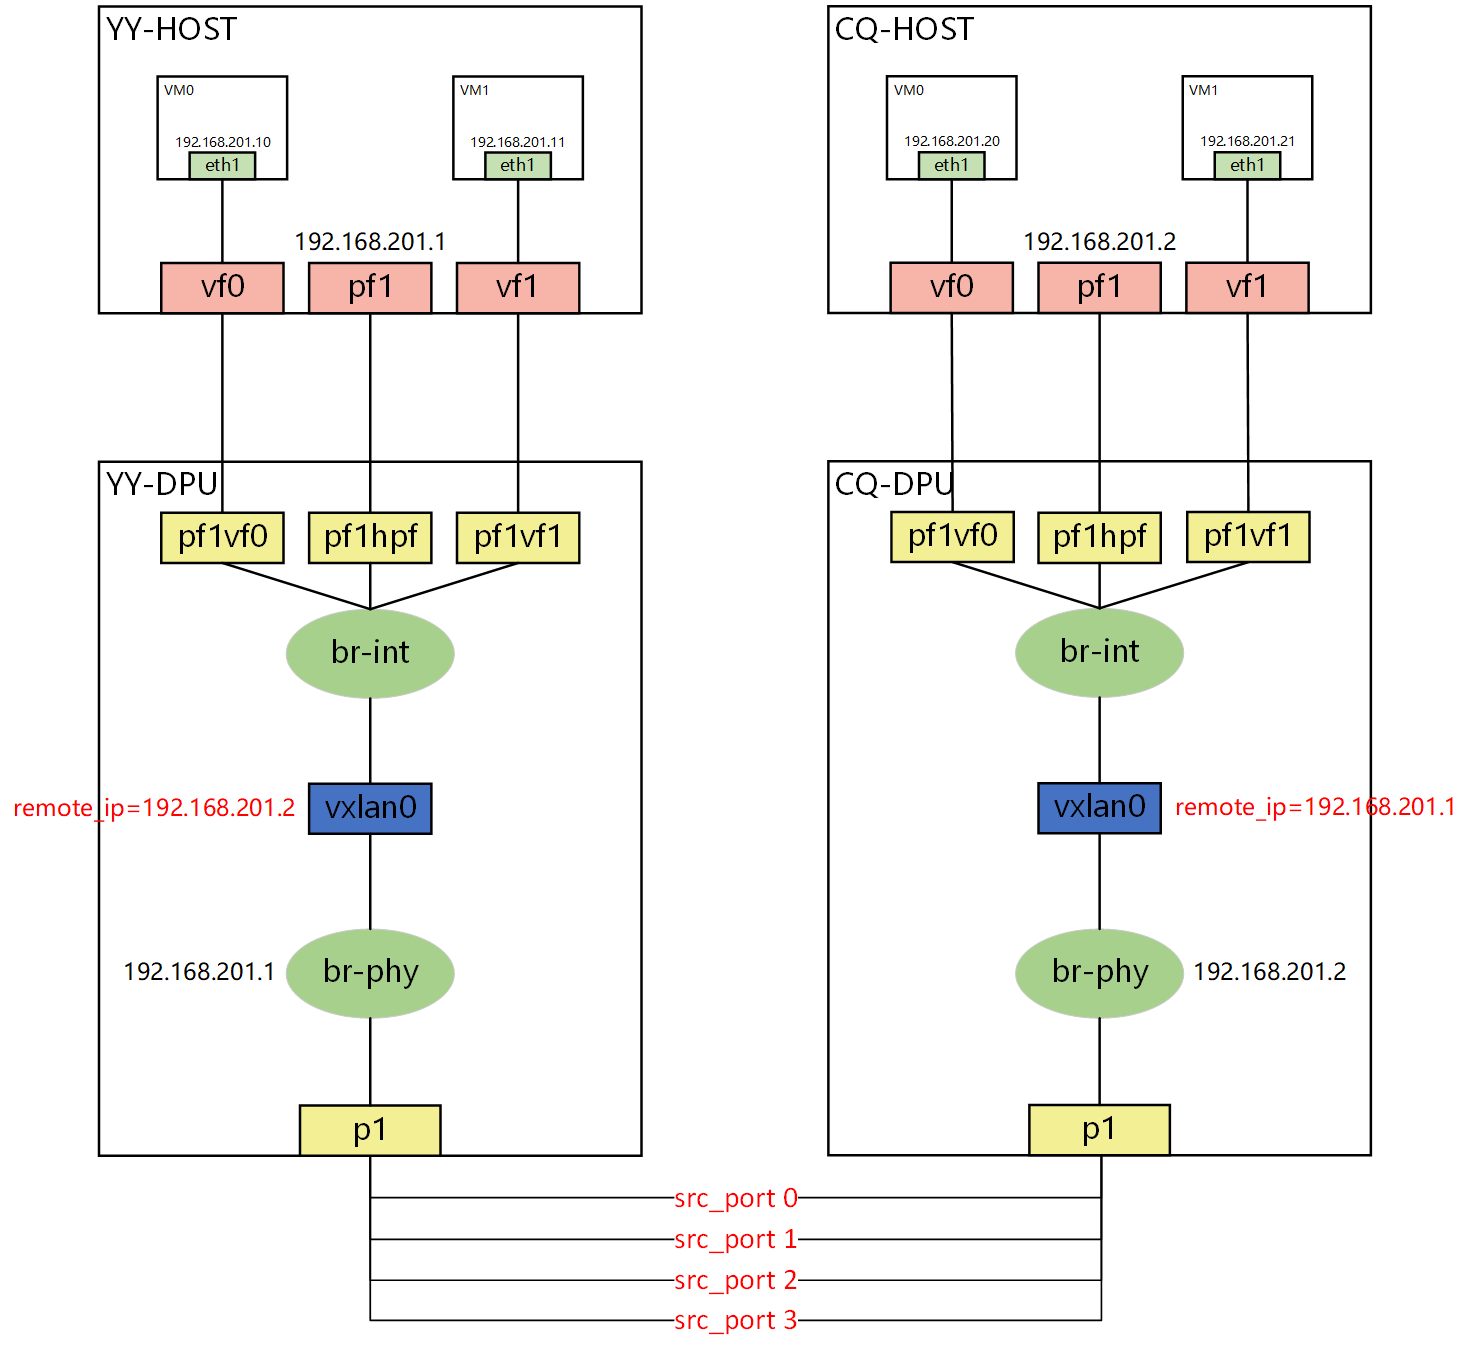
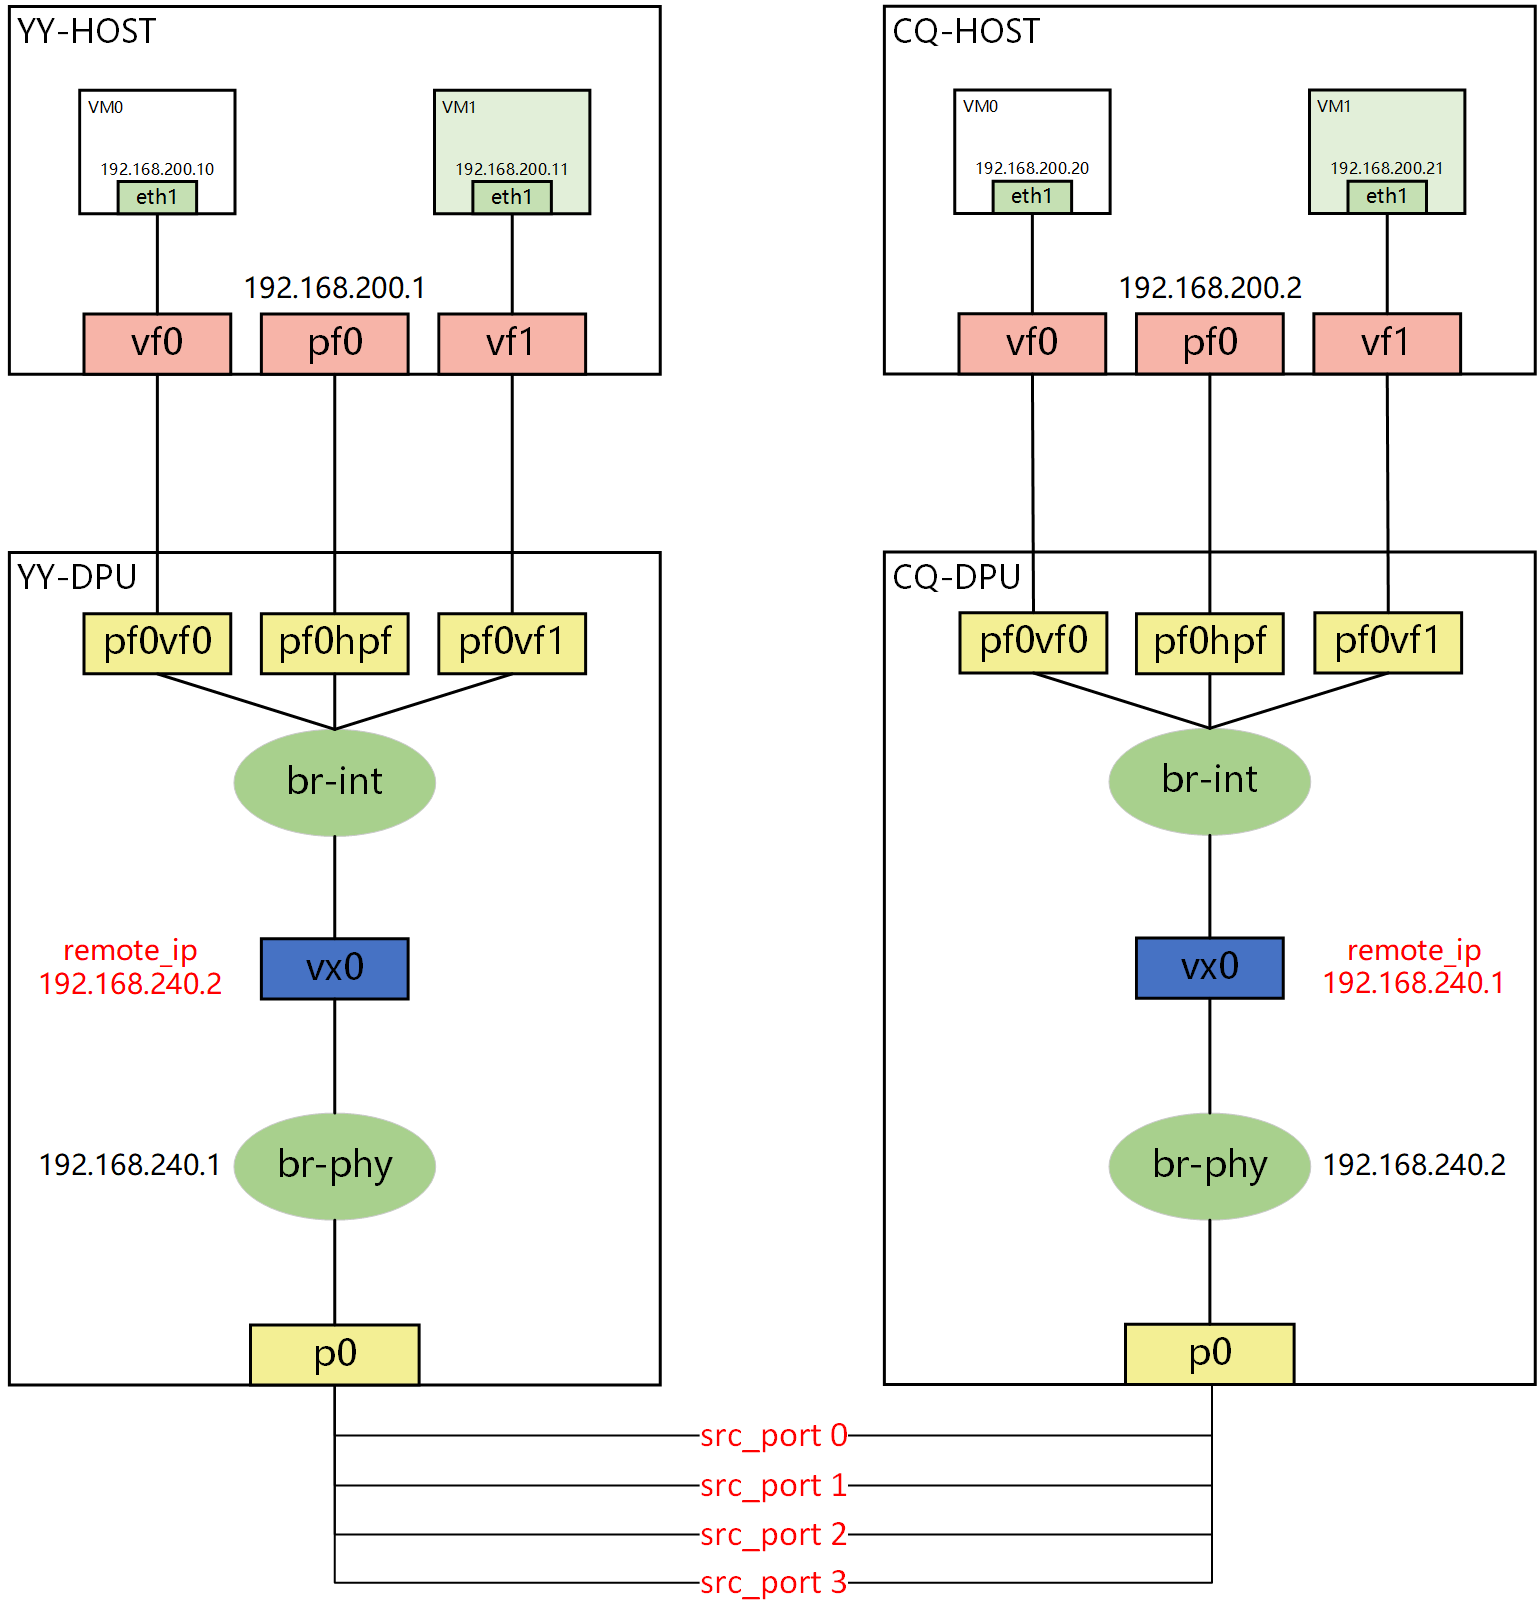
add p4 config mac

diff --git a/doc/ovs/kvm-vm-pass-though-vf-vxlan.md b/doc/ovs/kvm-vm-pass-though-vf-vxlan.md
@@ -90,9 +90,9 @@ virsh start vm_name
 - 拓扑
   
 
-![](../../image/topo.png)
+![拓扑](../../image/topo.png)
 
-- CQ-DPU ARM上OVS_DPDK构建拓扑,YY同理
+- CQ-DPU ARM上OVS_DPDK构建拓扑,YY同理 (以p0为例)
   
 
 ```bash
@@ -102,36 +102,36 @@ virsh start vm_name
 -- br-set-external-id br-int bridge-id br-int \
 -- set bridge br-int fail-mode=standalone 
 
-# 向br-int网桥添加pf1hpf 
-./ovs-vsctl add-port br-int pf1hpf \
--- set Interface pf1hpf type=dpdk options:dpdk-devargs=0000:03:00.1,representor=[65535]
+# 向br-int网桥添加pf0hpf 
+./ovs-vsctl add-port br-int pf0hpf \
+-- set Interface pf0hpf type=dpdk options:dpdk-devargs=0000:03:00.0,representor=[65535]
 
-# 向br-int网桥添加pf1vf0 
-./ovs-vsctl add-port br-int pf1hpf \
--- set Interface pf1hpf type=dpdk options:dpdk-devargs=0000:03:00.1,representor=[0]
+# 向br-int网桥添加pf0vf0 
+./ovs-vsctl add-port br-int pf0vf0 \
+-- set Interface pf0vf0 type=dpdk options:dpdk-devargs=0000:03:00.0,representor=[0]
 
-# 向br-int网桥添加pf1vf1 
-./ovs-vsctl add-port br-int pf1hpf \
--- set Interface pf1hpf type=dpdk options:dpdk-devargs=0000:03:00.1,representor=[1]
+# 向br-int网桥添加pf0vf1 
+./ovs-vsctl add-port br-int pf0vf1 \
+-- set Interface pf0vf1 type=dpdk options:dpdk-devargs=0000:03:00.0,representor=[1]
 # 以上三者应该可以一次性添加,参数 : representor=[0-1,65535]
 
-# 向br-int网桥添加vxlan0,指定remote_ip=172.168.1.1
+# 向br-int网桥添加vxlan0,指定remote_ip=192.168.240.1
 ./ovs-vsctl add-port br-int vxlan0 \
--- set interface vxlan0 type=vxlan options:remote_ip=172.168.1.1
+-- set interface vxlan0 type=vxlan options:remote_ip=192.168.240.1
 
 # 创建br-phy网桥,用于解析arp等报文
 ./ovs-vsctl --may-exist add-br br-phy \
 -- set Bridge br-phy datapath_type=netdev \
 -- br-set-external-id br-phy bridge-id br-phy \
 -- set bridge br-phy fail-mode=standalone \
-other_config:hwaddr=08:c0:eb:bf:ef:9f
+other_config:hwaddr=08:c0:eb:bf:ef:86
 
-# 向br-int网桥添加p1
-./ovs-vsctl --timeout 10 add-port br-phy p1 \
--- set Interface p1 type=dpdk options:dpdk-devargs=0000:03:00.1
+# 向br-int网桥添加p0
+./ovs-vsctl --timeout 10 add-port br-phy p0 \
+-- set Interface p0 type=dpdk options:dpdk-devargs=0000:03:00.0
 
 # 配置br-phy网桥
-ip addr add 172.168.1.2/24 dev br-phy
+ip addr add 192.168.240.2/24 dev br-phy
 ip link set br-phy up
 iptables -F
 ```
@@ -141,8 +141,8 @@ iptables -F
 
 ```bash
 # 为直通网卡的KVM VM配置ip (VM的HOST为CQ)
-ifconfig enp8s0 up 192.168.201.10/24
+ifconfig enp8s0 up 192.168.200.10/24
 
 # 从VM ping YY-HOST
-ping 192.168.201.1
+ping 192.168.200.1
 ```

diff --git a/doc/ovs/P4-config-mac.md b/doc/ovs/P4-config-mac.md
@@ -1,0 +1,64 @@
+# P4交换机下mac流表并在DPU上配置VxLAN
+
+引言： `ovs-dpdk` 方案在 `DPU` 上部署 `vxlan` ，需要使用 `p0` 作为 `underlay` ， `overlay` 是上层 `HOST` 的 `PF` 及 `VF` ，需要给 `switch2` 和 `switch3` 配置指定的 `p0` 口 `mac`
+
+## 1 修改P4交换机上的脚本
+
+- 文件位置： `/root/cq/ecmpudp/HOPA/benchmark.py`
+  
+- `Switch2` 上在以下位置添加: `"CQ-DPU-p0"` 和 `"YY-DPU-p0"` 两行， `mac` 地址是各自 `p0` 口的 `mac`
+  
+
+```python
+def runTest(self): #this switch is s2
+    ThisSwitchPort = [{"Name": "CQ-Host", "port": 4,"dst_mac": '08:c0:eb:bf:ef:9a'}, 
+            {"Name": "CQ-DPU", "port": 4,"dst_mac": '02:1e:a9:bf:27:47'},
+            {"Name": "CQ-DPU-p0", "port": 4,"dst_mac": '08:c0:eb:bf:ef:9e'},
+            {"Name": "Node2-p1", "port": 140,"dst_mac": 'b8:ce:f6:d5:d6:f7'}]
+
+    RemoteSwitchPort = [{"Name": "YY-Host", "port": 56,"dst_mac": '08:c0:eb:bf:ef:82'}, 
+            {"Name": "YY-DPU", "port": 56,"dst_mac": '02:b1:04:57:76:77'},
+            {"Name": "YY-DPU-p0", "port": 56,"dst_mac": '08:c0:eb:bf:ef:86'},
+            {"Name": "Node3-p1", "port": 56,"dst_mac": 'b8:ce:f6:d5:cc:5f'}]
+```
+
+- `Switch3` 上在以下位置添加: `"YY-DPU-p0"` 和 `"CQ-DPU-p0"` 两行， `mac` 地址是各自 `p0` 口的 `mac`
+
+```python
+def runTest(self):  # this switch is s3
+    ThisSwitchPort = [{"Name": "YY-Host", "port": 4,"dst_mac": '08:c0:eb:bf:ef:82'}, 
+            {"Name": "YY-DPU", "port": 4,"dst_mac": '02:b1:04:57:76:77'},
+            {"Name": "YY-DPU-p0", "port": 4,"dst_mac": '08:c0:eb:bf:ef:86'},
+            {"Name": "Node3-p1", "port": 140,"dst_mac": 'b8:ce:f6:d5:cc:5f'},
+            {"Name":"Node3-40GbE-p1","port":132,"dst_mac":"3c:fd:fe:9e:86:ca"}]
+
+    RemoteSwitchPort = [{"Name": "CQ-Host", "port": 56,"dst_mac": '08:c0:eb:bf:ef:9a'},
+            {"Name": "CQ-DPU", "port": 56,"dst_mac": '02:1e:a9:bf:27:47'},
+            {"Name": "CQ-DPU-p0", "port": 56,"dst_mac": '08:c0:eb:bf:ef:9e'},
+            {"Name": "Node2-p1", "port": 56,"dst_mac": 'b8:ce:f6:d5:d6:f7'}]
+```
+
+- 重新编译一下这两个文件
+- 配置vxlan拓扑在另一篇
+
+## 2 在arm上添加相应的arp
+
+```bash
+# CQ-DPU
+arp -s 192.168.240.1 08:c0:eb:bf:ef:86
+# YY-DPU
+arp -s 192.168.240.2 08:c0:eb:bf:ef:9e
+# 查看arp缓存内容
+arp -a
+```
+
+## 3 给br-phy添加相应的arp
+
+```bash
+# CQ-DPU
+./ovs-appctl tnl/arp/set br-phy 192.168.240.1 08:c0:eb:bf:ef:86
+# YY-DPU
+./ovs-appctl tnl/arp/set br-phy 192.168.240.2 08:c0:eb:bf:ef:9e
+# 查看arp缓存内容
+./ovs-appctl tnl/arp/show
+```
